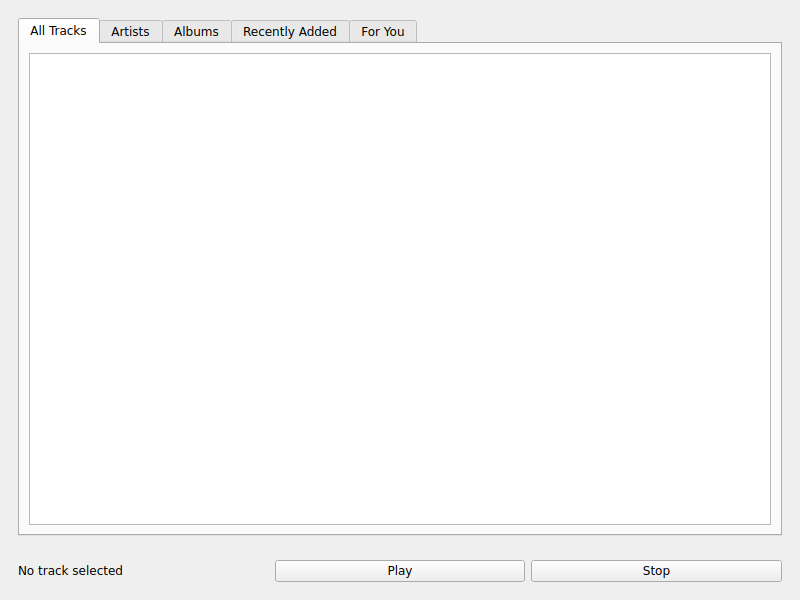
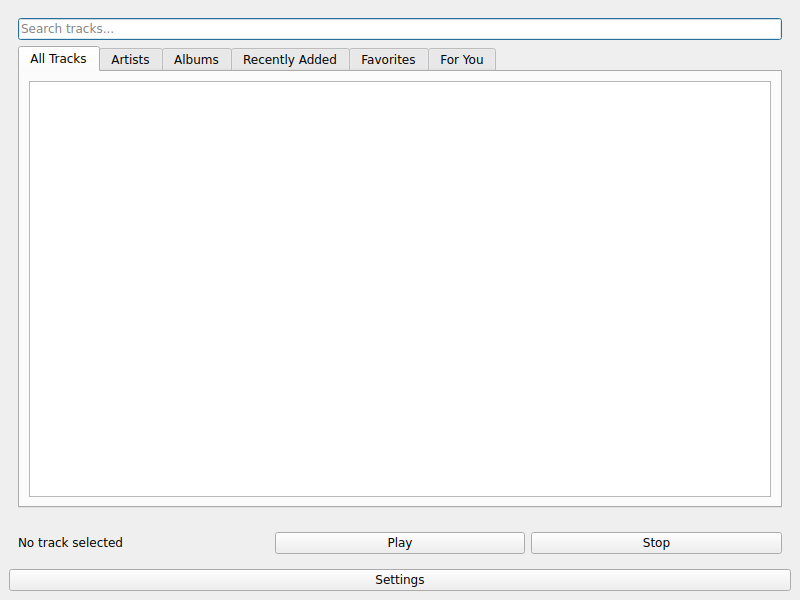
feat: Implement Search, Favorites, and Settings Window
This commit adds several key features to the MusicVault desktop application, enhancing its functionality and user interaction.

A search bar has been added to the main window, allowing users to filter the track list in real-time by title, artist, or album. The backend `ViewManager` has been updated with a `search_tracks` method to support this functionality.

A favorites system has been implemented. Tracks can now be marked as favorites through a context menu in the track lists. A new "Favorites" tab has been added to the library view to display all favorite tracks. The database schema and backend have been updated to support this feature.

A new settings window has been created, providing a placeholder for future application settings such as Vault location, theme selection, and AI features.

Unit tests for the new search and favorites functionality have been added to ensure the backend logic is working correctly.

Changed region(s): [[0.0, 0.84, 0.9688, 0.99], [0.0, 0.03, 0.9688, 0.12]]

diff --git a/musicvault/ui_library.py b/musicvault/ui_library.py
@@ -1,6 +1,7 @@
-from PySide6.QtWidgets import QWidget, QVBoxLayout, QListWidget, QListWidgetItem, QTabWidget, QLabel
+from PySide6.QtWidgets import QWidget, QVBoxLayout, QLineEdit, QListWidget, QListWidgetItem, QTabWidget, QLabel, QMenu
 from PySide6.QtCore import Signal, Qt
 from musicvault.view_manager import ViewManager
+from musicvault.vault_manager import VaultManager
 
 DB_PATH = "musicvault.db"
 
@@ -12,6 +13,10 @@ class LibraryView(QWidget):
         super().__init__()
         self.layout = QVBoxLayout(self)
 
+        self.search_bar = QLineEdit()
+        self.search_bar.setPlaceholderText("Search tracks...")
+        self.layout.addWidget(self.search_bar)
+
         self.tabs = QTabWidget()
         self.layout.addWidget(self.tabs)
 
@@ -21,11 +26,13 @@ class LibraryView(QWidget):
         self.albums_tab = QWidget()
         self.recently_added_tab = QWidget()
         self.for_you_tab = QWidget()
+        self.favorites_tab = QWidget()
 
         self.tabs.addTab(self.all_tracks_tab, "All Tracks")
         self.tabs.addTab(self.artists_tab, "Artists")
         self.tabs.addTab(self.albums_tab, "Albums")
         self.tabs.addTab(self.recently_added_tab, "Recently Added")
+        self.tabs.addTab(self.favorites_tab, "Favorites")
         self.tabs.addTab(self.for_you_tab, "For You")
 
         # Create list widgets as member variables
@@ -33,18 +40,30 @@ class LibraryView(QWidget):
         self.artist_list = QListWidget()
         self.album_list = QListWidget()
         self.recently_added_list = QListWidget()
+        self.favorites_list = QListWidget()
 
         # Populate tabs
         self.setup_all_tracks_tab()
         self.setup_artists_tab()
         self.setup_albums_tab()
         self.setup_recently_added_tab()
+        self.setup_favorites_tab()
         self.setup_for_you_tab()
 
         # Connect signals
         self.track_list.itemDoubleClicked.connect(self.on_track_double_clicked)
         self.artist_list.itemClicked.connect(self.on_artist_selected)
         self.recently_added_list.itemDoubleClicked.connect(self.on_track_double_clicked)
+        self.favorites_list.itemDoubleClicked.connect(self.on_track_double_clicked)
+        self.search_bar.textChanged.connect(self.on_search_changed)
+
+        # Set context menus
+        self.track_list.setContextMenuPolicy(Qt.ContextMenuPolicy.CustomContextMenu)
+        self.track_list.customContextMenuRequested.connect(self.show_track_context_menu)
+        self.recently_added_list.setContextMenuPolicy(Qt.ContextMenuPolicy.CustomContextMenu)
+        self.recently_added_list.customContextMenuRequested.connect(self.show_track_context_menu)
+        self.favorites_list.setContextMenuPolicy(Qt.ContextMenuPolicy.CustomContextMenu)
+        self.favorites_list.customContextMenuRequested.connect(self.show_track_context_menu)
 
     def setup_all_tracks_tab(self):
         """Sets up the 'All Tracks' tab with a list of all tracks."""
@@ -64,11 +83,13 @@ class LibraryView(QWidget):
         layout.addWidget(self.album_list)
         self.update_album_list()
 
-    def update_track_list(self, artist_name=None, album_name=None):
-        """Updates the track list, optionally filtering by artist or album."""
+    def update_track_list(self, artist_name=None, album_name=None, search_query=None):
+        """Updates the track list, optionally filtering by artist, album, or search query."""
         self.track_list.clear()
         with ViewManager(DB_PATH) as view_manager:
-            if artist_name:
+            if search_query:
+                tracks = view_manager.search_tracks(search_query)
+            elif artist_name:
                 tracks = view_manager.get_tracks_by_artist(artist_name)
             elif album_name:
                 tracks = view_manager.get_tracks_by_album(album_name)
@@ -129,3 +150,50 @@ class LibraryView(QWidget):
         placeholder_label = QLabel("AI-powered suggestions will appear here.\nEnable AI in Settings to get started.")
         placeholder_label.setAlignment(Qt.AlignmentFlag.AlignCenter)
         layout.addWidget(placeholder_label)
+
+    def setup_favorites_tab(self):
+        """Sets up the 'Favorites' tab with a list of favorite tracks."""
+        layout = QVBoxLayout(self.favorites_tab)
+        layout.addWidget(self.favorites_list)
+        self.update_favorites_list()
+
+    def update_favorites_list(self):
+        """Updates the favorites list."""
+        self.favorites_list.clear()
+        with ViewManager(DB_PATH) as view_manager:
+            tracks = view_manager.get_favorite_tracks()
+            for track in tracks:
+                item = QListWidgetItem(f"{track.title} - {track.artist}")
+                item.setData(1, track)
+                self.favorites_list.addItem(item)
+
+    def show_track_context_menu(self, pos):
+        """Shows a context menu for a track."""
+        list_widget = self.sender()
+        item = list_widget.itemAt(pos)
+        if not item:
+            return
+
+        track = item.data(1)
+
+        menu = QMenu()
+        favorite_action = menu.addAction("Add to Favorites" if not track.is_favorite else "Remove from Favorites")
+        action = menu.exec(list_widget.mapToGlobal(pos))
+
+        if action == favorite_action:
+            with VaultManager(DB_PATH) as vault_manager:
+                vault_manager.toggle_favorite(track.id)
+            self.update_all_views()
+
+    def update_all_views(self):
+        """Updates all the library views."""
+        self.update_track_list()
+        self.update_artist_list()
+        self.update_album_list()
+        self.update_recently_added_list()
+        self.update_favorites_list()
+
+    def on_search_changed(self, query):
+        """Filters the track list based on the search query."""
+        self.update_track_list(search_query=query)
+        self.tabs.setCurrentWidget(self.all_tracks_tab)

diff --git a/musicvault/view_manager.py b/musicvault/view_manager.py
@@ -23,22 +23,22 @@ class ViewManager:
 
     def get_all_tracks(self) -> List[Track]:
         """Returns all tracks from the library."""
-        query = "SELECT id, filepath, title, artist, album, genre, release_year, duration, date_added FROM tracks ORDER BY artist, album, title"
+        query = "SELECT id, filepath, title, artist, album, genre, release_year, duration, date_added, is_favorite FROM tracks ORDER BY artist, album, title"
         return self._execute_query(query)
 
     def get_tracks_by_artist(self, artist: str) -> List[Track]:
         """Returns all tracks by a specific artist."""
-        query = "SELECT id, filepath, title, artist, album, genre, release_year, duration, date_added FROM tracks WHERE artist=? ORDER BY album, title"
+        query = "SELECT id, filepath, title, artist, album, genre, release_year, duration, date_added, is_favorite FROM tracks WHERE artist=? ORDER BY album, title"
         return self._execute_query(query, (artist,))
 
     def get_tracks_by_album(self, album: str) -> List[Track]:
         """Returns all tracks from a specific album."""
-        query = "SELECT id, filepath, title, artist, album, genre, release_year, duration, date_added FROM tracks WHERE album=? ORDER BY title"
+        query = "SELECT id, filepath, title, artist, album, genre, release_year, duration, date_added, is_favorite FROM tracks WHERE album=? ORDER BY title"
         return self._execute_query(query, (album,))
 
     def get_tracks_by_genre(self, genre: str) -> List[Track]:
         """Returns all tracks of a specific genre."""
-        query = "SELECT id, filepath, title, artist, album, genre, release_year, duration, date_added FROM tracks WHERE genre=? ORDER BY artist, album, title"
+        query = "SELECT id, filepath, title, artist, album, genre, release_year, duration, date_added, is_favorite FROM tracks WHERE genre=? ORDER BY artist, album, title"
         return self._execute_query(query, (genre,))
 
     def get_distinct_artists(self) -> List[str]:
@@ -55,8 +55,24 @@ class ViewManager:
 
     def get_recently_added_tracks(self, limit: int = 20) -> List[Track]:
         """Returns the most recently added tracks."""
-        query = "SELECT id, filepath, title, artist, album, genre, release_year, duration, date_added FROM tracks ORDER BY date_added DESC LIMIT ?"
+        query = "SELECT id, filepath, title, artist, album, genre, release_year, duration, date_added, is_favorite FROM tracks ORDER BY date_added DESC LIMIT ?"
         return self._execute_query(query, (limit,))
+
+    def search_tracks(self, search_query: str) -> List[Track]:
+        """Searches for tracks by title, artist, or album."""
+        query = """
+            SELECT id, filepath, title, artist, album, genre, release_year, duration, date_added, is_favorite
+            FROM tracks
+            WHERE title LIKE ? OR artist LIKE ? OR album LIKE ?
+            ORDER BY artist, album, title
+        """
+        search_term = f"%{search_query}%"
+        return self._execute_query(query, (search_term, search_term, search_term))
+
+    def get_favorite_tracks(self) -> List[Track]:
+        """Returns all favorite tracks from the library."""
+        query = "SELECT id, filepath, title, artist, album, genre, release_year, duration, date_added, is_favorite FROM tracks WHERE is_favorite=1 ORDER BY artist, album, title"
+        return self._execute_query(query)
 
     def __enter__(self):
         """Enters a context management block."""

diff --git a/tests/test_managers.py b/tests/test_managers.py
@@ -109,5 +109,48 @@ class TestSandboxAndViewManagers(unittest.TestCase):
 
         os.remove(dummy_filepath2)
 
+    def test_search_tracks(self):
+        """Test searching for tracks."""
+        # Add a second track
+        dummy_filepath2 = "dummy_test2.mp3"
+        subprocess.run([
+            'ffmpeg', '-f', 'lavfi', '-i', 'anullsrc=r=44100:cl=mono',
+            '-t', '1', '-q:a', '9', '-acodec', 'libmp3lame', dummy_filepath2
+        ], check=True, capture_output=True)
+        audio = EasyID3()
+        audio['title'] = 'Another Song'
+        audio['artist'] = 'Another Artist'
+        audio.save(dummy_filepath2)
+        self.vault_manager.add_track(dummy_filepath2)
+
+        # Search by title
+        results = self.view_manager.search_tracks("Another Song")
+        self.assertEqual(len(results), 1)
+        self.assertEqual(results[0].title, "Another Song")
+
+        # Search by artist
+        results = self.view_manager.search_tracks("Another Artist")
+        self.assertEqual(len(results), 1)
+        self.assertEqual(results[0].artist, "Another Artist")
+
+        os.remove(dummy_filepath2)
+
+    def test_favorites(self):
+        """Test toggling favorite status and retrieving favorite tracks."""
+        # Mark track as favorite
+        self.vault_manager.toggle_favorite(self.test_track.id)
+
+        # Verify it's in favorites
+        favorites = self.view_manager.get_favorite_tracks()
+        self.assertEqual(len(favorites), 1)
+        self.assertEqual(favorites[0].title, "Test Song")
+
+        # Unmark as favorite
+        self.vault_manager.toggle_favorite(self.test_track.id)
+
+        # Verify it's not in favorites
+        favorites = self.view_manager.get_favorite_tracks()
+        self.assertEqual(len(favorites), 0)
+
 if __name__ == '__main__':
     unittest.main()

diff --git a/main.py b/main.py
@@ -1,6 +1,6 @@
 import sys
 import os
-from PySide6.QtWidgets import QApplication, QMainWindow, QVBoxLayout, QWidget
+from PySide6.QtWidgets import QApplication, QMainWindow, QVBoxLayout, QWidget, QPushButton
 from PySide6.QtCore import QTimer
 from musicvault.api_server import create_api_server, ServerThread
 from musicvault.vault_manager import VaultManager
@@ -8,6 +8,7 @@ from musicvault.sandbox_manager import SandboxManager
 from musicvault.ui_library import LibraryView
 from musicvault.ui_player import PlayerControls
 from musicvault.player import Player
+from musicvault.ui_settings import SettingsWindow
 
 DB_PATH = "musicvault.db"
 
@@ -34,6 +35,11 @@ class MainWindow(QMainWindow):
         self.player_controls = PlayerControls(self.player)
         layout.addWidget(self.player_controls)
 
+        # Add settings button
+        self.settings_button = QPushButton("Settings")
+        layout.addWidget(self.settings_button)
+        self.settings_button.clicked.connect(self.open_settings)
+
         # Connect signals
         self.library_view.track_selected.connect(self.play_track)
 
@@ -50,6 +56,11 @@ class MainWindow(QMainWindow):
         self.player.play()
         self.player_controls.set_current_track_label(f"Now Playing: {track.title}")
         self.player_controls.play_pause_button.setText("Pause")
+
+    def open_settings(self):
+        """Opens the settings window."""
+        self.settings_window = SettingsWindow()
+        self.settings_window.show()
 
 def main():
     """The main entry point for the application."""

diff --git a/musicvault/ui_settings.py b/musicvault/ui_settings.py
@@ -1,0 +1,36 @@
+from PySide6.QtWidgets import QWidget, QVBoxLayout, QFormLayout, QLineEdit, QComboBox, QCheckBox, QPushButton
+
+class SettingsWindow(QWidget):
+    """A window for application settings."""
+    def __init__(self):
+        super().__init__()
+        self.setWindowTitle("Settings")
+        self.layout = QVBoxLayout(self)
+
+        form_layout = QFormLayout()
+
+        # Vault Location
+        self.vault_location_edit = QLineEdit()
+        form_layout.addRow("Vault Location:", self.vault_location_edit)
+
+        # Theme Selection
+        self.theme_combo = QComboBox()
+        self.theme_combo.addItems(["Light", "Dark"])
+        form_layout.addRow("Theme:", self.theme_combo)
+
+        # AI Toggle
+        self.ai_toggle_check = QCheckBox("Enable AI Features")
+        form_layout.addRow("AI:", self.ai_toggle_check)
+
+        self.layout.addLayout(form_layout)
+
+        # Save Button
+        self.save_button = QPushButton("Save")
+        self.layout.addWidget(self.save_button)
+        self.save_button.clicked.connect(self.save_settings)
+
+    def save_settings(self):
+        """Saves the current settings."""
+        # This is a placeholder for now.
+        print("Settings saved (placeholder).")
+        self.close()

diff --git a/musicvault/vault_manager.py b/musicvault/vault_manager.py
@@ -27,7 +27,8 @@ class VaultManager:
                 genre TEXT,
                 release_year INTEGER,
                 duration REAL,
-                date_added TIMESTAMP DEFAULT CURRENT_TIMESTAMP
+                date_added TIMESTAMP DEFAULT CURRENT_TIMESTAMP,
+                is_favorite BOOLEAN DEFAULT 0
             )
         ''')
         self.conn.commit()
@@ -75,6 +76,12 @@ class VaultManager:
         except Exception as e:
             print(f"Error processing file {filepath}: {e}")
             return None
+
+    def toggle_favorite(self, track_id: int):
+        """Toggles the favorite status of a track."""
+        cursor = self.conn.cursor()
+        cursor.execute("UPDATE tracks SET is_favorite = NOT is_favorite WHERE id=?", (track_id,))
+        self.conn.commit()
 
     def close(self):
         """Closes the database connection."""

diff --git a/musicvault/sandbox_manager.py b/musicvault/sandbox_manager.py
@@ -67,7 +67,7 @@ class SandboxManager:
         playlist = Playlist(id=playlist_row[0], name=playlist_row[1])
 
         cursor.execute("""
-            SELECT t.id, t.filepath, t.title, t.artist, t.album, t.genre, t.release_year, t.duration, t.date_added
+            SELECT t.id, t.filepath, t.title, t.artist, t.album, t.genre, t.release_year, t.duration, t.date_added, t.is_favorite
             FROM tracks t
             JOIN playlist_tracks pt ON t.id = pt.track_id
             WHERE pt.playlist_id = ?

diff --git a/musicvault/models.py b/musicvault/models.py
@@ -14,6 +14,7 @@ class Track:
     duration: Optional[float] = None
     fingerprint: Optional[str] = None
     date_added: Optional[str] = None
+    is_favorite: bool = False
 
 @dataclass
 class Playlist:
